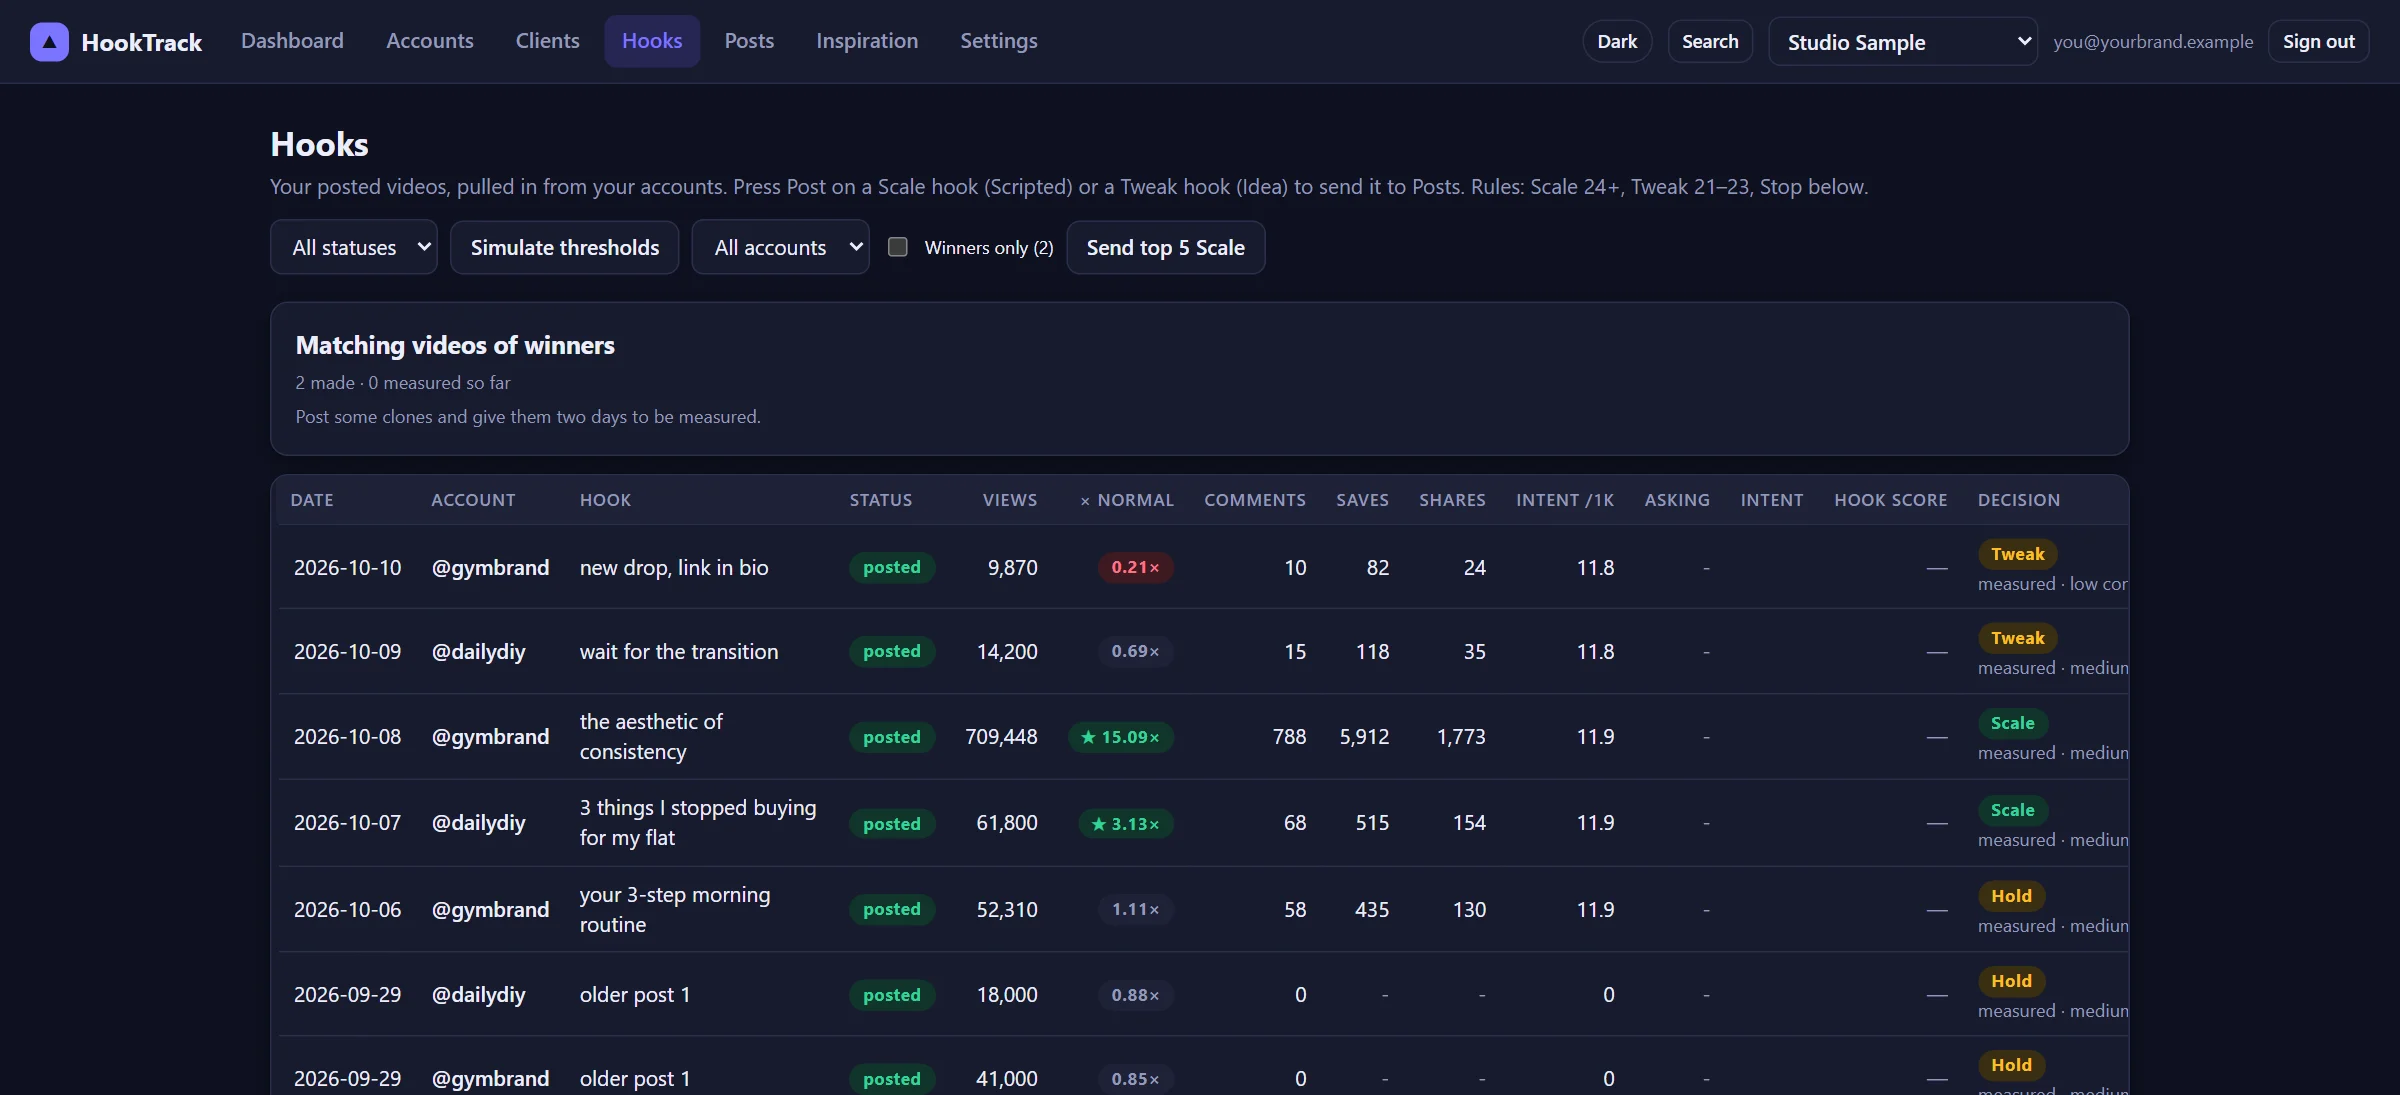
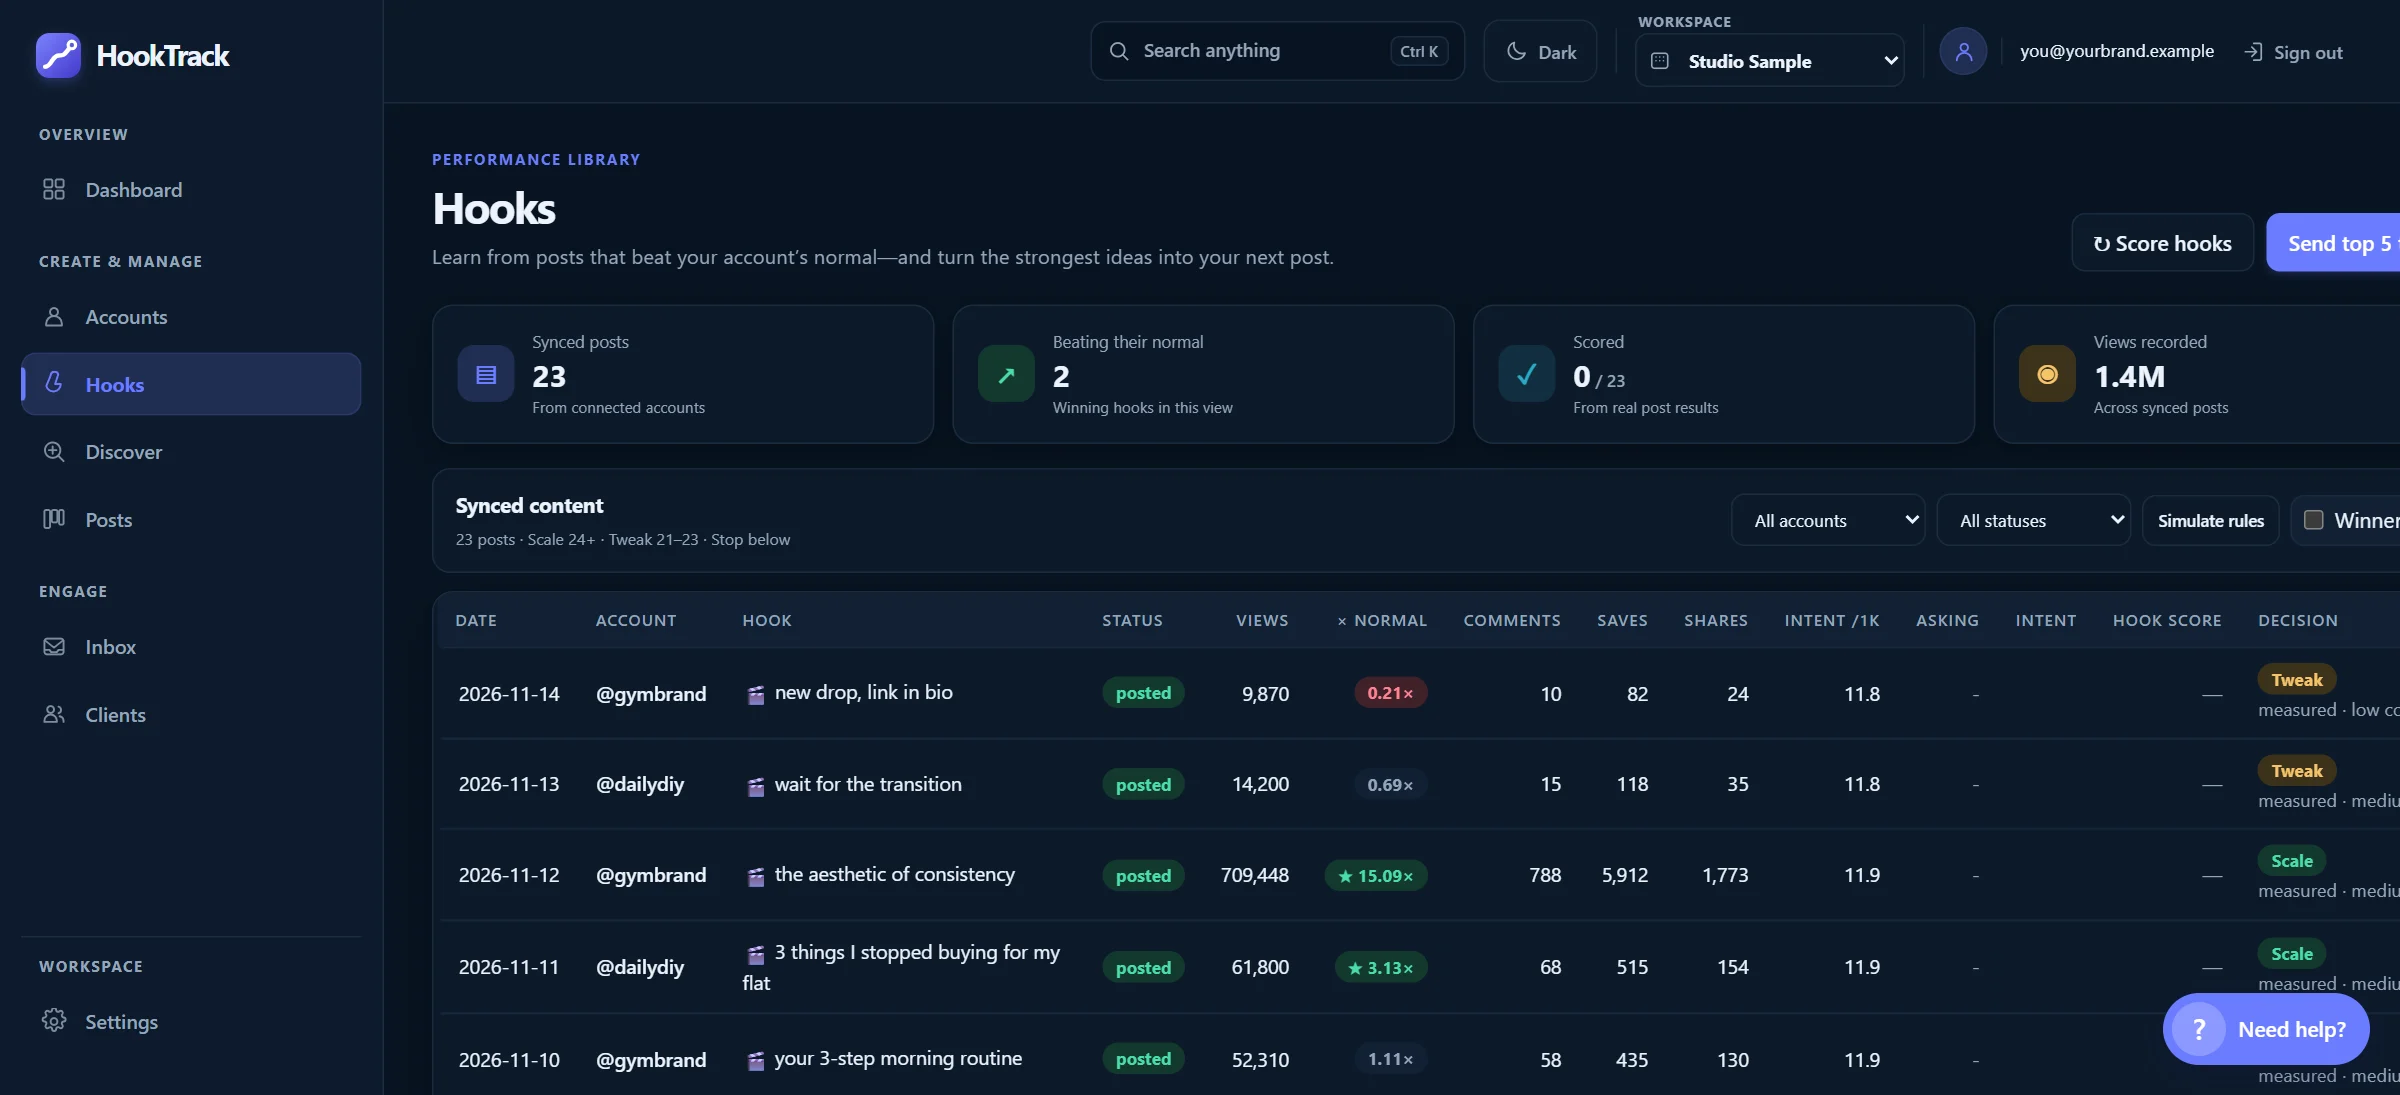
Refresh landing page product screenshots

diff --git a/hooktrack/static/landing.html b/hooktrack/static/landing.html
@@ -93,14 +93,14 @@ header .actions{margin-left:auto;display:flex;gap:10px;align-items:center}
 
 /* product mock */
 
-.shots{position:relative;margin:46px auto 0;max-width:1040px;text-align:left}
+.shots{display:grid;grid-template-columns:repeat(2,minmax(0,1fr));gap:16px;margin:46px auto 0;max-width:1040px;text-align:left}
 .shot{margin:0;border:1px solid var(--border);border-radius:var(--radius);background:var(--surface);overflow:hidden;box-shadow:0 30px 80px -30px rgba(0,0,0,.55)}
 .shot .bar{display:flex;align-items:center;gap:8px;padding:10px 14px;border-bottom:1px solid var(--border);background:var(--surface-2);font-size:13px;color:var(--muted)}
 .shot .dot{width:10px;height:10px;border-radius:50%;background:var(--border)}
 .shot .tag{margin-left:auto;font-size:11px;text-transform:uppercase;letter-spacing:.06em}
 .shot img{display:block;width:100%;height:auto}
-.shot-posts{position:relative;z-index:2;width:90%;margin:-72px 0 0 auto}
-@media(max-width:700px){.shot{overflow-x:auto;-webkit-overflow-scrolling:touch}.shot img{width:720px;max-width:none}.shot .bar{position:sticky;left:0}.shot-posts{width:96%;margin-top:-22px}}
+.shot-hooks{grid-column:1/-1}
+@media(max-width:700px){.shots{grid-template-columns:1fr;gap:12px}.shot{overflow-x:auto;-webkit-overflow-scrolling:touch}.shot img{width:720px;max-width:none}.shot .bar{position:sticky;left:0}.shot-hooks{grid-column:auto}}
 .pill{display:inline-block;padding:3px 10px;border-radius:99px;font-size:12px;font-weight:700}
 .pill.win{background:color-mix(in srgb,var(--good) 18%,transparent);color:var(--good)}
 .pill.avg{background:var(--surface-2);color:var(--muted)}
@@ -224,14 +224,18 @@ footer .partners img{display:block;height:auto;max-width:100%}
       <span class="p" role="listitem"><b>Measure</b> what works and improve</span>
     </div>
 
-    <div class="shots" role="group" aria-label="The Hooks page and the Posts board, shown with sample data">
+    <div class="shots" role="group" aria-label="HookTrack product pages, shown with sample data">
       <figure class="shot shot-hooks">
         <div class="bar"><span class="dot"></span><span class="dot"></span><span class="dot"></span><span>Hooks</span><span class="tag">Example data</span></div>
         <img src="/shots/hooks.webp" width="2400" height="1095" alt="The Hooks page: each posted video with its views, how many times its own account's normal it did, and a Scale, Tweak or Hold decision" fetchpriority="high">
       </figure>
       <figure class="shot shot-posts">
         <div class="bar"><span class="dot"></span><span class="dot"></span><span class="dot"></span><span>Posts</span><span class="tag">Example data</span></div>
-        <img src="/shots/posts.webp" width="2400" height="750" alt="The Posts board: the winning hooks sent on as Scripted cards, next to Idea, Filmed and Posted" loading="lazy">
+        <img src="/shots/posts.webp" width="2400" height="750" alt="The current Posts board: ideas and published work organized in a content pipeline" loading="lazy">
+      </figure>
+      <figure class="shot shot-studio">
+        <div class="bar"><span class="dot"></span><span class="dot"></span><span class="dot"></span><span>Studio</span><span class="tag">Example data</span></div>
+        <img src="/shots/studio.webp" width="2400" height="1350" alt="HookTrack Studio: the in-app video editor with its canvas, timeline, and editing toolbar" loading="lazy">
       </figure>
     </div>
   </div>

diff --git a/hooktrack/tools/landing_shots.py b/hooktrack/tools/landing_shots.py
@@ -1,10 +1,10 @@
-"""Regenerate the landing page's product screenshots (static/shots/hooks.webp and posts.webp).
+"""Regenerate the landing page's product screenshots in static/shots/.
 
     python tools/landing_shots.py
 
-It builds a throwaway database holding an invented sample workspace (no real accounts or posts), runs the real app
-against it, signs in through the real login form and captures the Hooks page and the Posts board. Nothing here touches
-your own database. Needs: Postgres (the dev one on 55434), Playwright with Edge or Chrome, and ffmpeg for WebP.
+It builds a uniquely named throwaway database holding an invented sample workspace (no real accounts or posts), runs
+the real app against it, signs in through the real login form and captures the Hooks, Posts, and Studio pages. Nothing
+here touches your own database. Needs: Postgres (the dev one on 55434), Playwright with Edge or Chrome, and ffmpeg.
 """
 from __future__ import annotations
 
@@ -13,6 +13,7 @@ import shutil
 import subprocess
 import sys
 import time
+import uuid
 from datetime import date, timedelta
 from pathlib import Path
 
@@ -22,7 +23,7 @@ import psycopg2
 ROOT = Path(__file__).resolve().parent.parent
 OUT = ROOT / "static" / "shots"
 ADMIN_URL = "postgresql://hooktrack:ht_dev_pw@127.0.0.1:55434/postgres"
-DB = "hooktrack_shots"
+DB = f"hooktrack_shots_{uuid.uuid4().hex[:12]}"
 PORT = 8085
 BASE = f"http://127.0.0.1:{PORT}"
 EMAIL, PASSWORD = "you@yourbrand.example", "sample-workspace-pw-1"
@@ -45,8 +46,8 @@ def main() -> int:
     c = psycopg2.connect(ADMIN_URL)
     c.autocommit = True
     cur = c.cursor()
-    cur.execute(f'DROP DATABASE IF EXISTS "{DB}" WITH (FORCE)')
     cur.execute(f'CREATE DATABASE "{DB}"')
+    database_created = True
     url = f"postgresql://hooktrack:ht_dev_pw@127.0.0.1:55434/{DB}"
     env = {**os.environ, "DATABASE_URL": url, "HOOKTRACK_SECRET": "shots-secret", "HOOKTRACK_SYNC_INTERVAL_HOURS": "0",
            "HOOKTRACK_BACKUP": "0"}
@@ -93,11 +94,15 @@ def main() -> int:
         for text in ("the aesthetic of consistency", "your 3-step morning routine", "3 things I stopped buying for my flat"):
             api.post(f"/api/posts/{hook_ids[text]}/followup")
         first = api.get("/api/accounts").json()[0]["id"]
+        studio_post_id = None
         for status, hook, offset in [("filmed", "Behind the scenes: how we plan a week of posts", 1),
                                      ("posted", "What I eat before a morning session", -4),
                                      ("idea", "Three mistakes new lifters make", 6)]:
-            api.post("/api/posts", json={"account_id": first, "post_date": (today + timedelta(days=offset)).isoformat(),
-                                         "status": status, "hook": hook, "views": 0, "comments": 0, "intent": False})
+            post = api.post("/api/posts", json={"account_id": first, "post_date": (today + timedelta(days=offset)).isoformat(),
+                                                "status": status, "hook": hook, "views": 0, "comments": 0, "intent": False})
+            post.raise_for_status()
+            if status == "filmed":
+                studio_post_id = post.json()["id"]
         db.close()
 
         from playwright.sync_api import sync_playwright
@@ -118,7 +123,7 @@ def main() -> int:
             page.wait_for_selector("#nav", timeout=20000)
             # let the app finish rendering its own landing page first: a slow render that finishes after we navigate
             # would otherwise paint over the page we asked for
-            page.wait_for_function("() => (document.querySelector('h1')||{}).innerText === 'Dashboard'", timeout=20000)
+            page.wait_for_function("() => (document.querySelector('#app h1')||{}).innerText.trim().length > 0", timeout=20000)
             page.wait_for_load_state("networkidle")
             page.wait_for_timeout(1500)
 
@@ -134,7 +139,9 @@ def main() -> int:
 
             # (file, route, the page's own heading, a row that proves its data is in, capture height)
             for name, route, heading, ready, height in (("hooks", "#/hooks", "Hooks", "table tbody tr", 730),
-                                                        ("posts", "#/pipeline", "Posts", ".pipe-card", 500)):
+                                                        ("posts", "#/pipeline", "Posts", ".pipe-card", 500),
+                                                        ("studio", f"#/studio?post={studio_post_id}", "Edit in Studio",
+                                                         "[data-shotstack-studio]", 900)):
                 page.set_viewport_size({"width": 1600, "height": height})
                 # the app can finish its own post-login redirect after we navigate, so insist that the page we want is
                 # still the page on screen a moment later, and go there again if it is not
@@ -145,6 +152,12 @@ def main() -> int:
                         page.wait_for_selector(ready, timeout=8000)
                     except Exception:
                         continue
+                    if name == "studio":
+                        page.wait_for_function(
+                            "() => { const s = document.querySelector('#studio-status'); "
+                            "return s && s.textContent.trim() !== 'Loading editor…'; }",
+                            timeout=60000,
+                        )
                     page.wait_for_timeout(1500)
                     if page.evaluate("() => (document.querySelector('h1')||{}).innerText") == heading:
                         break
@@ -167,7 +180,8 @@ def main() -> int:
             server.wait(timeout=10)
         except Exception:
             server.kill()
-        cur.execute(f'DROP DATABASE IF EXISTS "{DB}" WITH (FORCE)')
+        if database_created:
+            cur.execute(f'DROP DATABASE "{DB}" WITH (FORCE)')
         c.close()
     return 0
 
